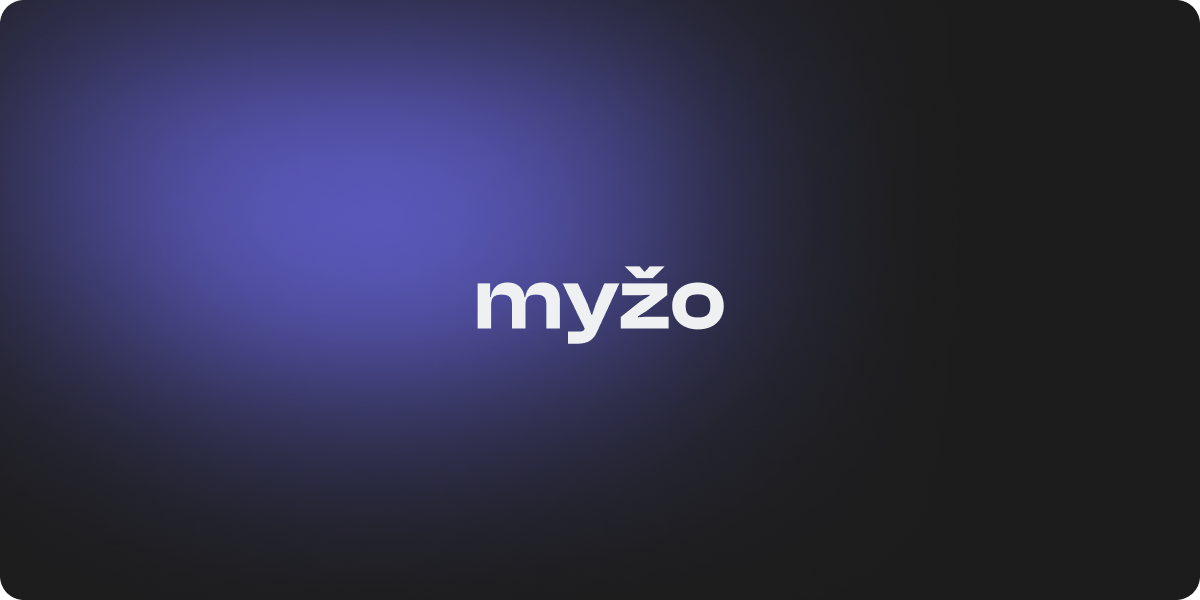
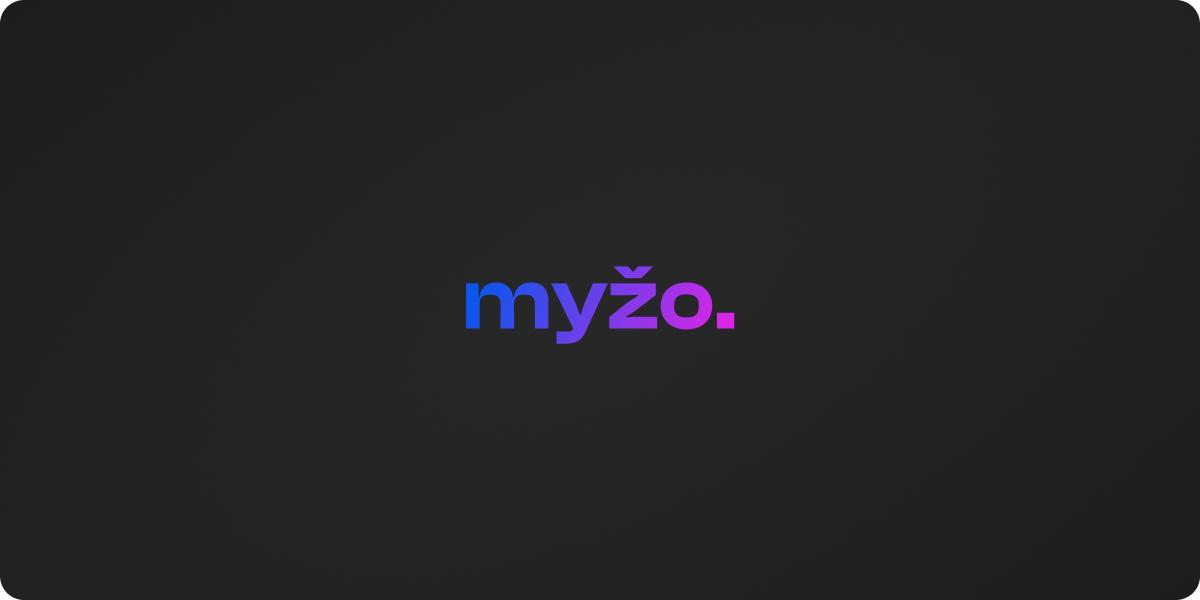
feat: add lenis for smooth scrolling & updates

diff --git a/components/layout/AppFooter.tsx b/components/layout/AppFooter.tsx
@@ -1,4 +1,4 @@
-import { MailIcon } from "lucide-react";
+import { MailIcon, MoveDownIcon } from "lucide-react";
 
 import { CONTACT_ROUTE } from "@/utils/routes";
 
@@ -7,8 +7,10 @@ import { Separator } from "@/components/magicui/separator";
 import ButtonLink from "@/components/ui/ButtonLink";
 import { GithubIcon, LinkedInIcon } from "@/components/ui/Icon";
 
+import linksList from "@/libs/links-list";
+
+import SocialLink from "../ui/SocialLink";
 import CurrentPlaying from "./footer/CurrentPlaying";
-import SocialLink from "./footer/SocialLink";
 
 export default function AppFooter() {
 	return (
@@ -16,7 +18,10 @@ export default function AppFooter() {
 			<section className="bg-muted flex flex-col gap-10 rounded-xl p-6">
 				<div className="flex flex-col justify-between gap-6 md:flex-row md:items-start">
 					<header>
-						<SectionHeading className="mb-4">Let's talk about your idea</SectionHeading>
+						<div className="mb-4 flex items-center gap-2">
+							<MoveDownIcon className="size-4" />
+							<SectionHeading>Let's talk about your idea</SectionHeading>
+						</div>
 
 						<nav className="flex flex-col gap-2 md:flex-row">
 							<ButtonLink size="lg" href={CONTACT_ROUTE}>
@@ -34,6 +39,10 @@ export default function AppFooter() {
 					<CurrentPlaying />
 				</div>
 
+				<figure className="w-full">
+					<img className="w-full" src="/images/logo.svg" alt="Myžo logo" />
+				</figure>
+
 				<aside className="flex flex-col gap-4">
 					<Separator />
 
@@ -43,21 +52,13 @@ export default function AppFooter() {
 							<small className="text-muted-foreground block text-xs">2026</small>
 						</div>
 
-						<nav aria-label="Social media" className="flex flex-col items-start gap-2 md:items-end">
-							<ul className="flex flex-wrap gap-2">
-								<li>
-									<SocialLink href="https://github.com/myzodev" icon={<GithubIcon />} label="Github" target="_blank" />
+						<ul className="flex flex-wrap gap-2">
+							{linksList.map((link) => (
+								<li key={link.href}>
+									<SocialLink href={link.href} icon={link.icon} label={link.label} />
 								</li>
-								<li>
-									<SocialLink
-										href="https://www.linkedin.com/in/michal-valo-421762237/"
-										icon={<LinkedInIcon />}
-										label="LinkedIn"
-										target="_blank"
-									/>
-								</li>
-							</ul>
-						</nav>
+							))}
+						</ul>
 					</div>
 				</aside>
 			</section>

diff --git a/components/layout/AppNavbar.tsx b/components/layout/AppNavbar.tsx
@@ -32,7 +32,7 @@ const navLinks = [
 	{ href: CONTACT_ROUTE, label: "Contact", icon: PhoneIcon },
 ] as const;
 
-const smoothSpring = { type: "spring" as const, stiffness: 320, damping: 32, mass: 0.45 };
+const smoothSpring = { type: "tween" as const, duration: 0.5 };
 
 const headerTransition = smoothSpring;
 
@@ -58,10 +58,9 @@ export default function AppNavbar() {
 						<AnimatedThemeToggler className="cursor-pointer" duration={500} />
 
 						<Drawer
-							shouldScaleBackground={false}
 							direction="right"
 							onOpenChange={(open) => {
-								if (open) setMotionKey((k) => k + 1);
+								if (open) setMotionKey((key) => key + 1);
 							}}
 						>
 							<DrawerTrigger asChild>
@@ -126,7 +125,7 @@ export default function AppNavbar() {
 												<DrawerClose asChild>
 													<ButtonLink
 														className={cn(
-															"h-10 w-full gap-3 rounded-sm text-sm font-bold uppercase",
+															"h-10 w-full justify-start gap-3 rounded-sm text-sm font-bold uppercase",
 															pathname === href && "text-primary!",
 														)}
 														href={href}
@@ -134,7 +133,6 @@ export default function AppNavbar() {
 													>
 														<Icon className="size-4" />
 														{label}
-														<MoveUpRightIcon className="ml-auto size-3" />
 													</ButtonLink>
 												</DrawerClose>
 											</motion.li>

diff --git a/app/contact/components/contact/ContactInfo.tsx b/app/contact/components/contact/ContactInfo.tsx
@@ -1,7 +1,9 @@
 import { MoveDownRightIcon } from "lucide-react";
 
-import SocialLink from "@/components/layout/footer/SocialLink";
 import { GithubIcon, LinkedInIcon } from "@/components/ui/Icon";
+import SocialLink from "@/components/ui/SocialLink";
+
+import linksList from "@/libs/links-list";
 
 export default function ContactItems() {
 	return (
@@ -17,18 +19,11 @@ export default function ContactItems() {
 				<small className="text-muted-foreground mb-1 block">Links</small>
 
 				<ul className="flex flex-wrap gap-2">
-					<li>
-						<SocialLink href="https://github.com/myzodev" icon={<GithubIcon />} label="Github" target="_blank" />
-					</li>
-
-					<li>
-						<SocialLink
-							href="https://www.linkedin.com/in/michal-valo-421762237/"
-							icon={<LinkedInIcon />}
-							label="LinkedIn"
-							target="_blank"
-						/>
-					</li>
+					{linksList.map((link) => (
+						<li key={link.href}>
+							<SocialLink href={link.href} icon={link.icon} label={link.label} />
+						</li>
+					))}
 				</ul>
 			</div>
 		</aside>

diff --git a/app/projects/page.tsx b/app/projects/page.tsx
@@ -1,9 +1,6 @@
 import type { Metadata } from "next";
 
-import PageHeader from "@/components/PageHeader";
-import ProjectsBlock from "@/components/projects/ProjectsBlock";
-
-import projects from "@/libs/projects";
+import ProjectsPage from "./content";
 
 export const metadata: Metadata = {
 	title: "Myžo • What I've been working on",
@@ -11,16 +8,5 @@ export const metadata: Metadata = {
 };
 
 export default function Page() {
-	return (
-		<>
-			<PageHeader text="From Concept to" highlightText="Realization" />
-			<ProjectsBlock
-				heading="Projects"
-				projects={projects}
-				border={false}
-				showProjectsButton={false}
-				offsetClasssName="pb-20 lg:pb-32"
-			/>
-		</>
-	);
+	return <ProjectsPage />;
 }

diff --git a/app/projects/[slug]/page.tsx b/app/projects/[slug]/page.tsx
@@ -1,11 +1,9 @@
 import { Metadata } from "next";
 import { notFound } from "next/navigation";
 
-import AppWIP from "@/components/layout/AppWIP";
-
 import { getAllProjectSlugs, getProjectBySlug } from "@/libs/projects";
 
-import ProjectHeader from "./components/ProjectHeader";
+import ProjectPage from "./content";
 
 export async function generateMetadata({ params }: Props): Promise<Metadata> {
 	const { slug } = await params;
@@ -34,10 +32,5 @@ export default async function Page({ params }: Props) {
 		notFound();
 	}
 
-	return (
-		<>
-			<ProjectHeader project={project} />
-			<AppWIP size="small" showButton={false} />
-		</>
-	);
+	return <ProjectPage project={project} />;
 }

diff --git a/app/layout.tsx b/app/layout.tsx
@@ -1,5 +1,7 @@
 import { ThemeProvider } from "next-themes";
 
+import { ReactLenis } from "lenis/react";
+
 import { cn } from "@/utils/utils";
 
 import AppFooter from "@/components/layout/AppFooter";
@@ -10,6 +12,7 @@ import CursorDot from "@/components/ui/CursorDot";
 import { ClashDisplay, Nunito } from "@/assets/styles/fonts";
 
 import "@/assets/css/app.css";
+import "lenis/dist/lenis.css";
 
 export default function RootLayout({
 	children,
@@ -24,6 +27,7 @@ export default function RootLayout({
 				<ThemeProvider attribute="class" defaultTheme="system" enableSystem>
 					<Toaster />
 					<CursorDot />
+					<ReactLenis />
 
 					<AppNavbar />
 

diff --git a/components/projects/ProjectsItem.tsx b/components/projects/ProjectsItem.tsx
@@ -11,7 +11,7 @@ import ProjectsItemImage from "./ProjectsItemImage";
 export default function ProjectsItem(item: Project) {
 	return (
 		<li
-			className={`border-border bg-background link-overlay-box group rounded-lg border p-4 pb-5 transition-colors sm:p-6 ${cn(!item.wip && "hover:border-primary/50")}`}
+			className={`border-border bg-background link-overlay-box group rounded-lg border p-4 pb-5 transition-colors duration-500 sm:p-6 ${cn(!item.wip && "hover:border-primary/50")}`}
 		>
 			<div className="relative mb-4">
 				<div

diff --git a/components/ui/SocialLink.tsx b/components/ui/SocialLink.tsx
@@ -1,0 +1,16 @@
+import { Separator } from "@/components/magicui/separator";
+import ButtonLink from "@/components/ui/ButtonLink";
+
+import type Link from "@/types/link";
+
+export default function SocialLink({ icon: Icon, label = "", href = "", target = "_blank" }: Link) {
+	if (!Icon || !label) return null;
+
+	return (
+		<ButtonLink className="gap-2" variant="outline" href={href} target={target}>
+			<Icon className="size-4" />
+			<Separator className="my-2.5" orientation="vertical" />
+			{label}
+		</ButtonLink>
+	);
+}

diff --git a/components/PageHeader.tsx b/components/PageHeader.tsx
@@ -1,4 +1,4 @@
-import { HTMLAttributes } from "react";
+import { MoveDownRightIcon } from "lucide-react";
 
 import { cn } from "@/utils/utils";
 
@@ -19,6 +19,8 @@ export default function PageHeader({ offsetClasssName, text, highlightText }: Pr
 
 	return (
 		<header className={cn("relative container overflow-hidden", offsetClasses)}>
+			<MoveDownRightIcon className="mb-4 size-4" />
+
 			<h1 className="text-4xl font-bold sm:text-5xl lg:text-7xl">
 				{text} <br />
 				<AuroraText>{highlightText}</AuroraText>

diff --git a/app/projects/content.tsx b/app/projects/content.tsx
@@ -1,0 +1,19 @@
+import PageHeader from "@/components/PageHeader";
+import ProjectsBlock from "@/components/projects/ProjectsBlock";
+
+import projects from "@/libs/projects";
+
+export default function ProjectsPage() {
+	return (
+		<>
+			<PageHeader text="From Concept to" highlightText="Realization" />
+			<ProjectsBlock
+				heading="What I've been working on"
+				projects={projects}
+				border={false}
+				showProjectsButton={false}
+				offsetClasssName="pb-20 lg:pb-32"
+			/>
+		</>
+	);
+}

diff --git a/app/(home)/components/HeroBlock.tsx b/app/(home)/components/HeroBlock.tsx
@@ -1,3 +1,5 @@
+import { MoveDownRightIcon } from "lucide-react";
+
 import { CONTACT_ROUTE, PROJECTS_ROUTE } from "@/utils/routes";
 
 import { AuroraText } from "@/components/magicui/aurora-text";
@@ -34,6 +36,10 @@ export default function HeroBlock() {
 						Project showcase
 					</ButtonLink>
 				</footer>
+
+				<div className="absolute top-4 left-4">
+					<MoveDownRightIcon className="size-4" />
+				</div>
 			</article>
 		</header>
 	);

diff --git a/libs/links-list.ts b/libs/links-list.ts
@@ -1,0 +1,18 @@
+import { GithubIcon, LinkedInIcon } from "@/components/ui/Icon";
+
+import type Link from "@/types/link";
+
+const linksList: Link[] = [
+	{
+		icon: GithubIcon,
+		label: "Github",
+		href: "https://github.com/myzodev",
+	},
+	{
+		icon: LinkedInIcon,
+		label: "LinkedIn",
+		href: "https://www.linkedin.com/in/michal-valo-421762237/",
+	},
+];
+
+export default linksList;
